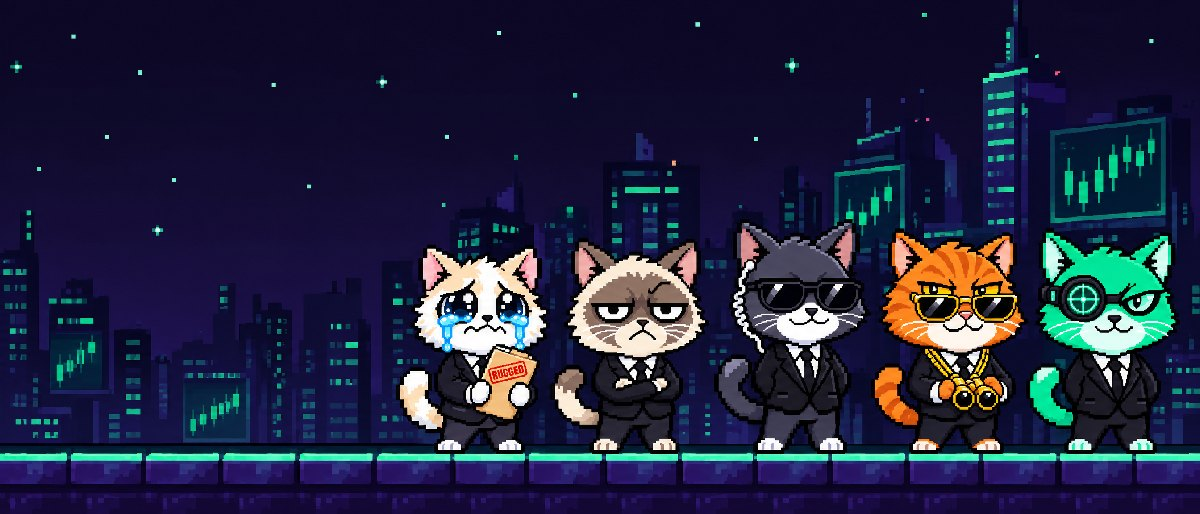
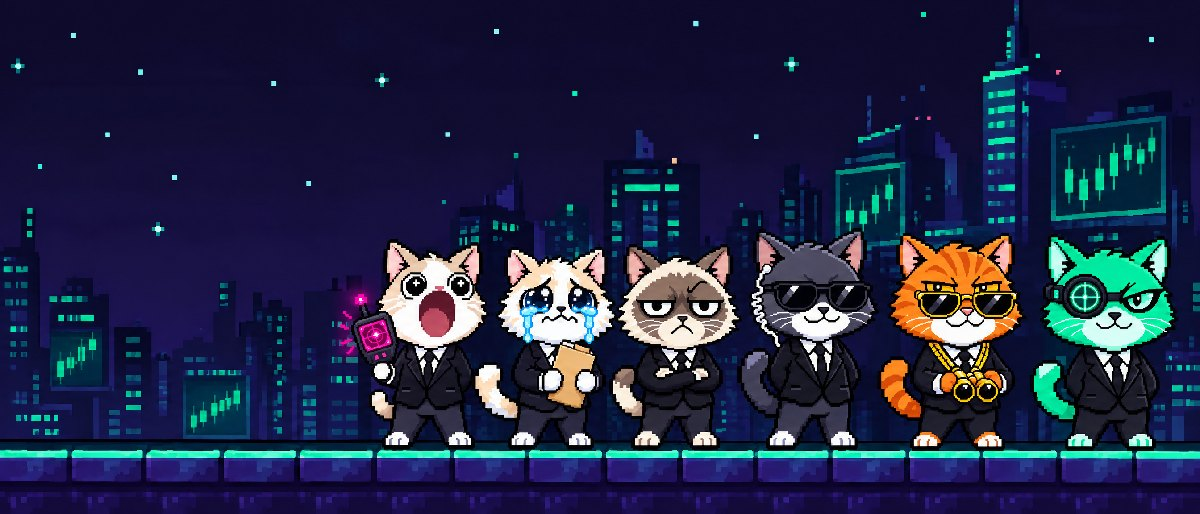
Popcat joins the agency; the site moves to catintelligenceagency.com
Popcat, a pixel kitten with its mouth popped open and a radar scanner,
scans emerging cat memecoins. Made with Higgsfield like the others; the
roster scene is regenerated with all six kittens, and the X header, link
preview and site hero are recomposed from it.

The owner bought catintelligenceagency.com: the extension's default
console page is https://catintelligenceagency.com/console/ (www too),
the manifest's content script matches it, the GitHub Pages address stays
allowed until the domain's DNS points at Pages, and site/CNAME names the
domain.

Claude-Session: https://claude.ai/code/session_01TQMNaAcHpHNZykmEHDBCMX

diff --git a/README.md b/README.md
@@ -2,7 +2,7 @@
 
 *The sniper cat. It hovers ten seconds over every launch and buys only what others followed.*
 
-**Website:** [gtjvv976mb-netizen.github.io/coinmarketcat](https://gtjvv976mb-netizen.github.io/coinmarketcat/) — the agency, [CoinMarketCat's page](https://gtjvv976mb-netizen.github.io/coinmarketcat/coinmarketcat/) and [the console](https://gtjvv976mb-netizen.github.io/coinmarketcat/console/), published from `site/`.
+**Website:** [catintelligenceagency.com](https://catintelligenceagency.com/) — the agency, [CoinMarketCat's page](https://catintelligenceagency.com/coinmarketcat/) and [the console](https://catintelligenceagency.com/console/), published from `site/`.
 
 CoinMarketCat — the sniper cat, the first trading agent of Cat Intelligence Agency — is
 the Claude Company launch sniper's lane (HAWK-AI's), run in your own browser. You set the
@@ -306,7 +306,7 @@ cd coinmarketcat && npm ci && npm run build      # → dist/
    the two disagree on is not trusted, and a read one of them missed or failed is used
    alone (the shadow row's `endpointVerdict` says `single` or `one_missing`).
 3. Open the console page — the popup's **Console** button opens
-   `https://gtjvv976mb-netizen.github.io/coinmarketcat/console/` — and press **Connect Phantom**.
+   `https://catintelligenceagency.com/console/` — and press **Connect Phantom**.
    Phantom injects its provider into web pages only, so signing happens in that tab.
    **Keep it open.**
 4. In the popup choose **Observe**. Watch the shadow book fill. Export it, grade it.

diff --git a/brand/README.md b/brand/README.md
@@ -2,7 +2,7 @@
 
 The agents are **pixel kittens on a 2D floor**. The agency itself is **3D**. Every character,
 scene, texture and the 3D building were generated with Higgsfield: GPT Image 2.5 for the art,
-with the Director kitten as the style reference for the other four, and Tripo H3.1 for the
+with the Director kitten as the style reference for the other five, and Tripo H3.1 for the
 image-to-3D building. Type was set over the art afterwards, so it is spelled exactly. The
 first, non-pixel portrait set is in git history (commit 035de87).
 
@@ -27,7 +27,7 @@ house rules, the pump.fun description, and the site copy.
 | `source/` | | The roster scene, the Director portrait, the seamless pixel floor tile, and the building concept image, as generated |
 
 The cats: `director` (the logo), `coinmarketcat` (the sniper; the extension's icons are made
-from this one), `crying-cat` (ruggers), `grumpy-cat` (fake hype), `cashcat` (whales and KOLs).
+from this one), `crying-cat` (ruggers), `grumpy-cat` (fake hype), `cashcat` (whales and KOLs), `popcat` (emerging cat memecoins).
 
 ## Palette
 
@@ -39,6 +39,7 @@ from this one), `crying-cat` (ruggers), `grumpy-cat` (fake hype), `cashcat` (wha
 | Gold | `#f5c542` | $CIA, CashCat |
 | Tear blue | `#5ab8ff` | Crying Cat |
 | Burnt orange | `#e8742c` | Grumpy Cat |
+| Hot pink | `#ff4fd8` | Popcat |
 
 ## Type
 
